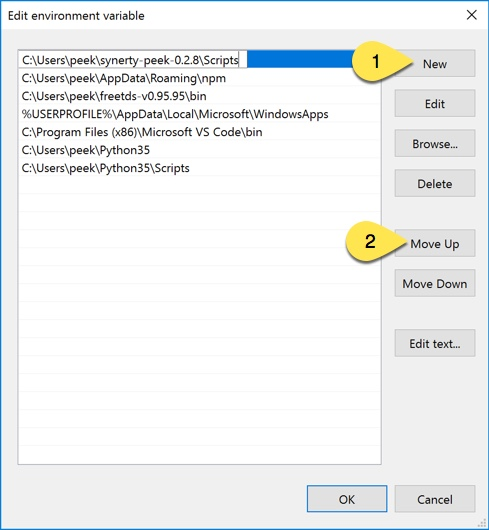
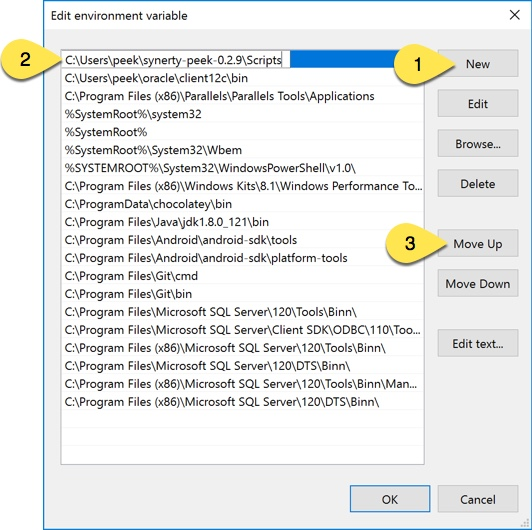
Updated the Environment Variables instructions to add to the 'System Variables'
ORMOB-172

diff --git a/docs/deploy_platform/DeployPeekPlatform.rst b/docs/deploy_platform/DeployPeekPlatform.rst
@@ -79,7 +79,7 @@ Go to 'System Properties' and select 'Environment Variables...'
 
 ----
 
-In the 'User Variables for {WindowsUser}' section, highlight 'PATH' and select 'Edit...'
+In the 'System Variables' section, highlight 'PATH' and select 'Edit...'
 
 .. image:: EnvVar-EnvironmentVariables.jpg
 
